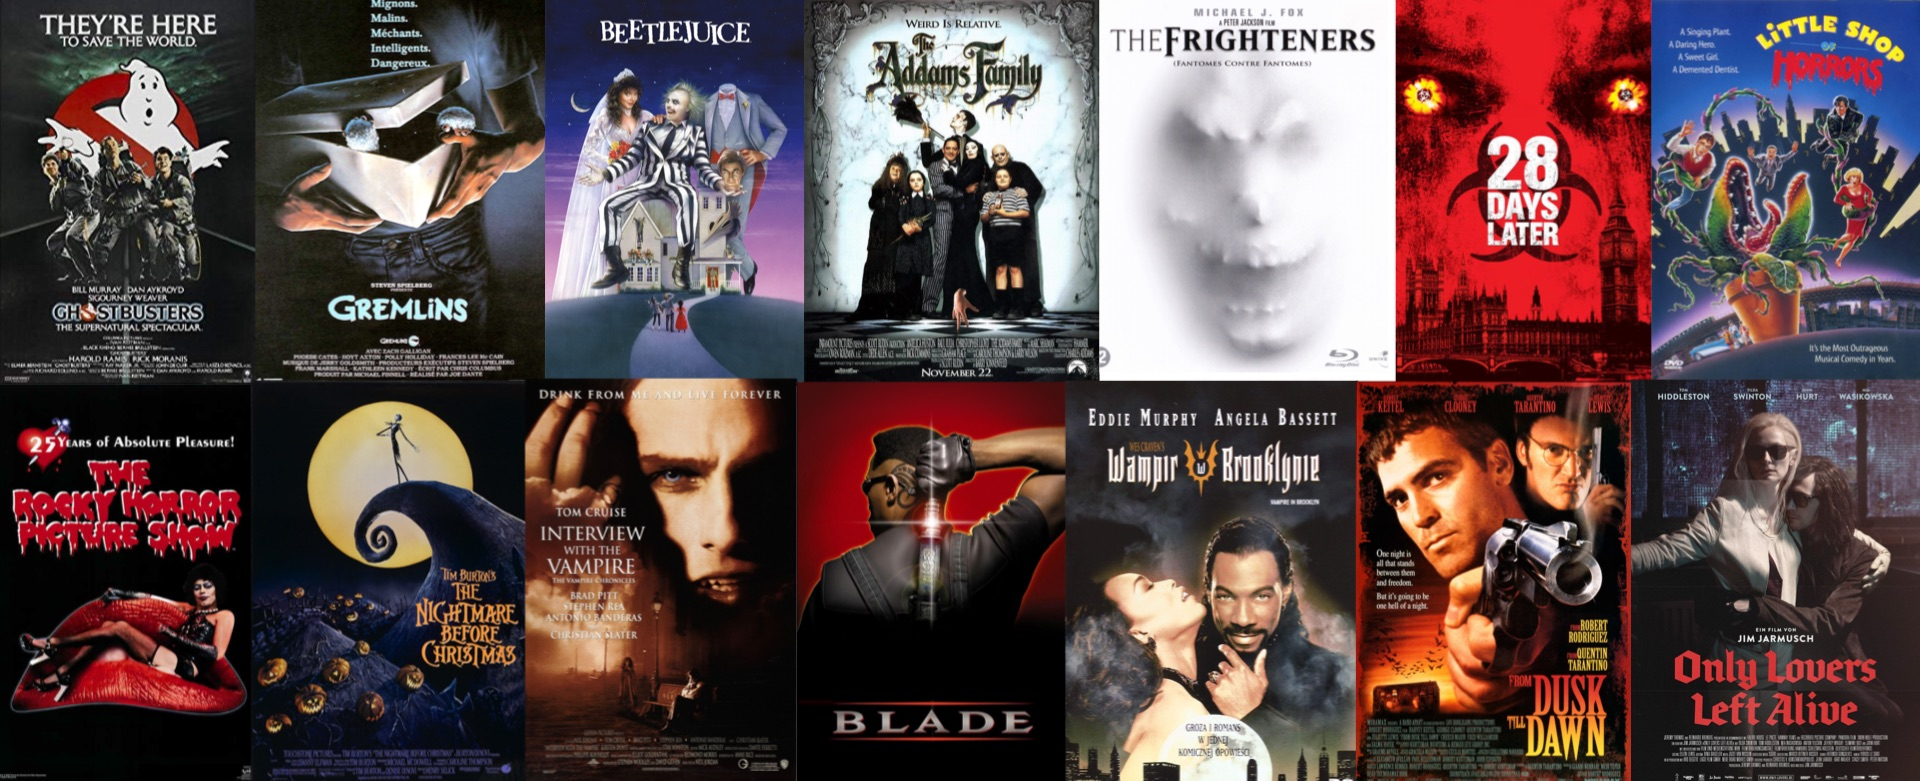
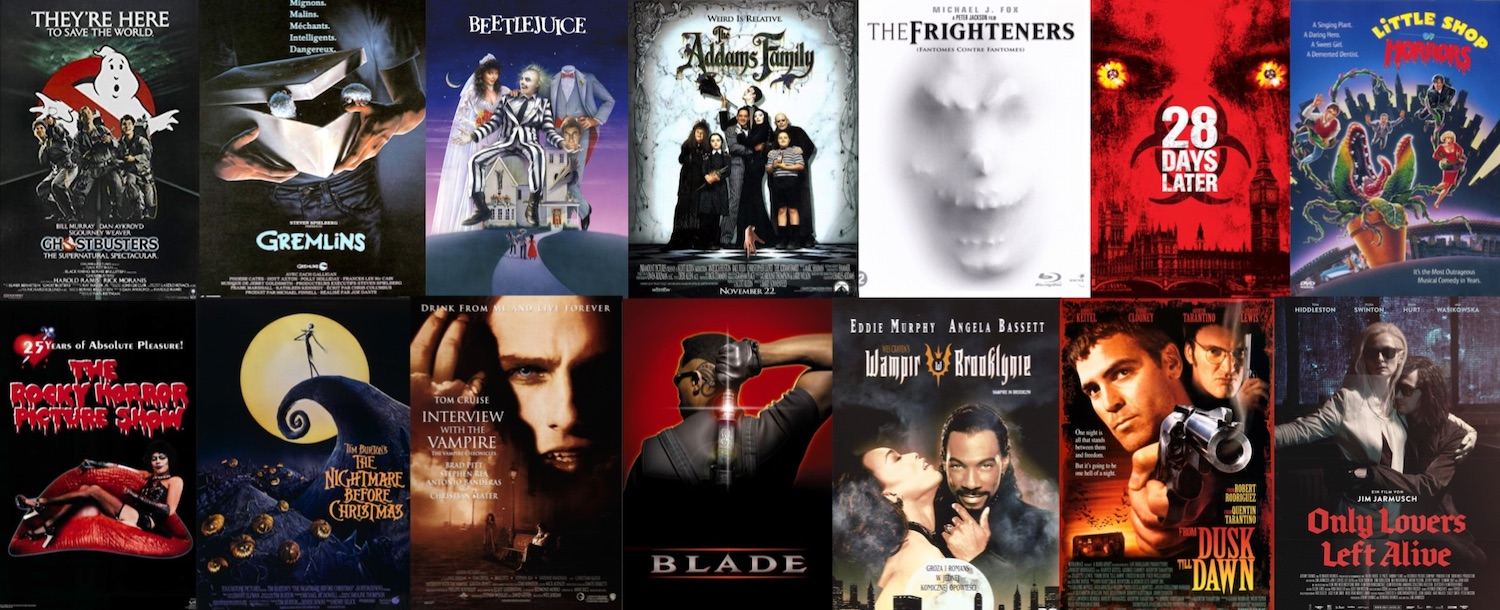
Use jpg instead of png and reduce images size

diff --git a/content/elao/halloween-2019.md b/content/elao/halloween-2019.md
@@ -22,7 +22,7 @@ Chez Elao, nous aimons deux choses : le cinéma et Halloween. Bien entendu, nous
 
 ## Anne-Laure
 
-![](/images/posts/2019/halloween/anne-laure.png)
+![](/images/posts/2019/halloween/anne-laure.jpg)
 
 ### Films qui font plus ou moins peur :
 
@@ -57,7 +57,7 @@ Chez Elao, nous aimons deux choses : le cinéma et Halloween. Bien entendu, nous
 
 ## Thomas
 
-![](/images/posts/2019/halloween/thomas.png)
+![](/images/posts/2019/halloween/thomas.jpg)
 
 ###  "Horreur d'auteur"
 
@@ -81,7 +81,7 @@ Si vous les avez loupé à l'époque ...
 
 ## Florian
 
-![](/images/posts/2019/halloween/flo.png)
+![](/images/posts/2019/halloween/flo.jpg)
 
 ### Les films dont ça fait 10 ans que je recherche désespérément le titre
 - __Dead end__, Jean-Baptiste Andrea (2003)
@@ -91,7 +91,7 @@ Si vous les avez loupé à l'époque ...
 
 ## Guewen
 
-![](/images/posts/2019/halloween/guewen.png)
+![](/images/posts/2019/halloween/guewen.jpg)
 
 ### Les classiques
 
